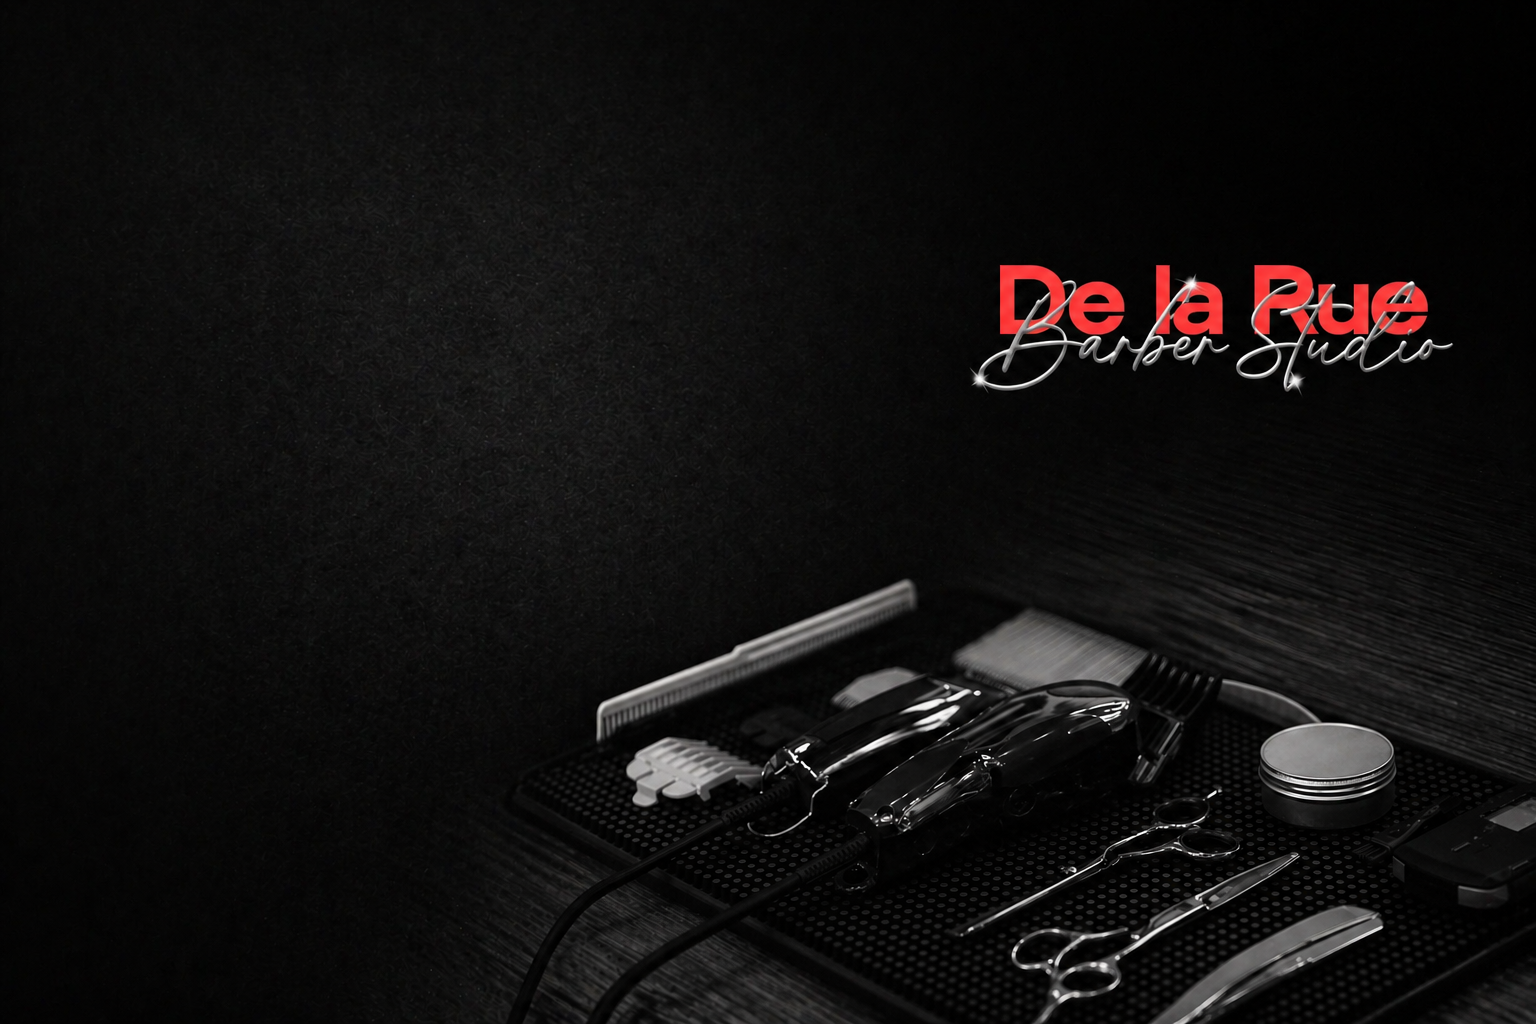
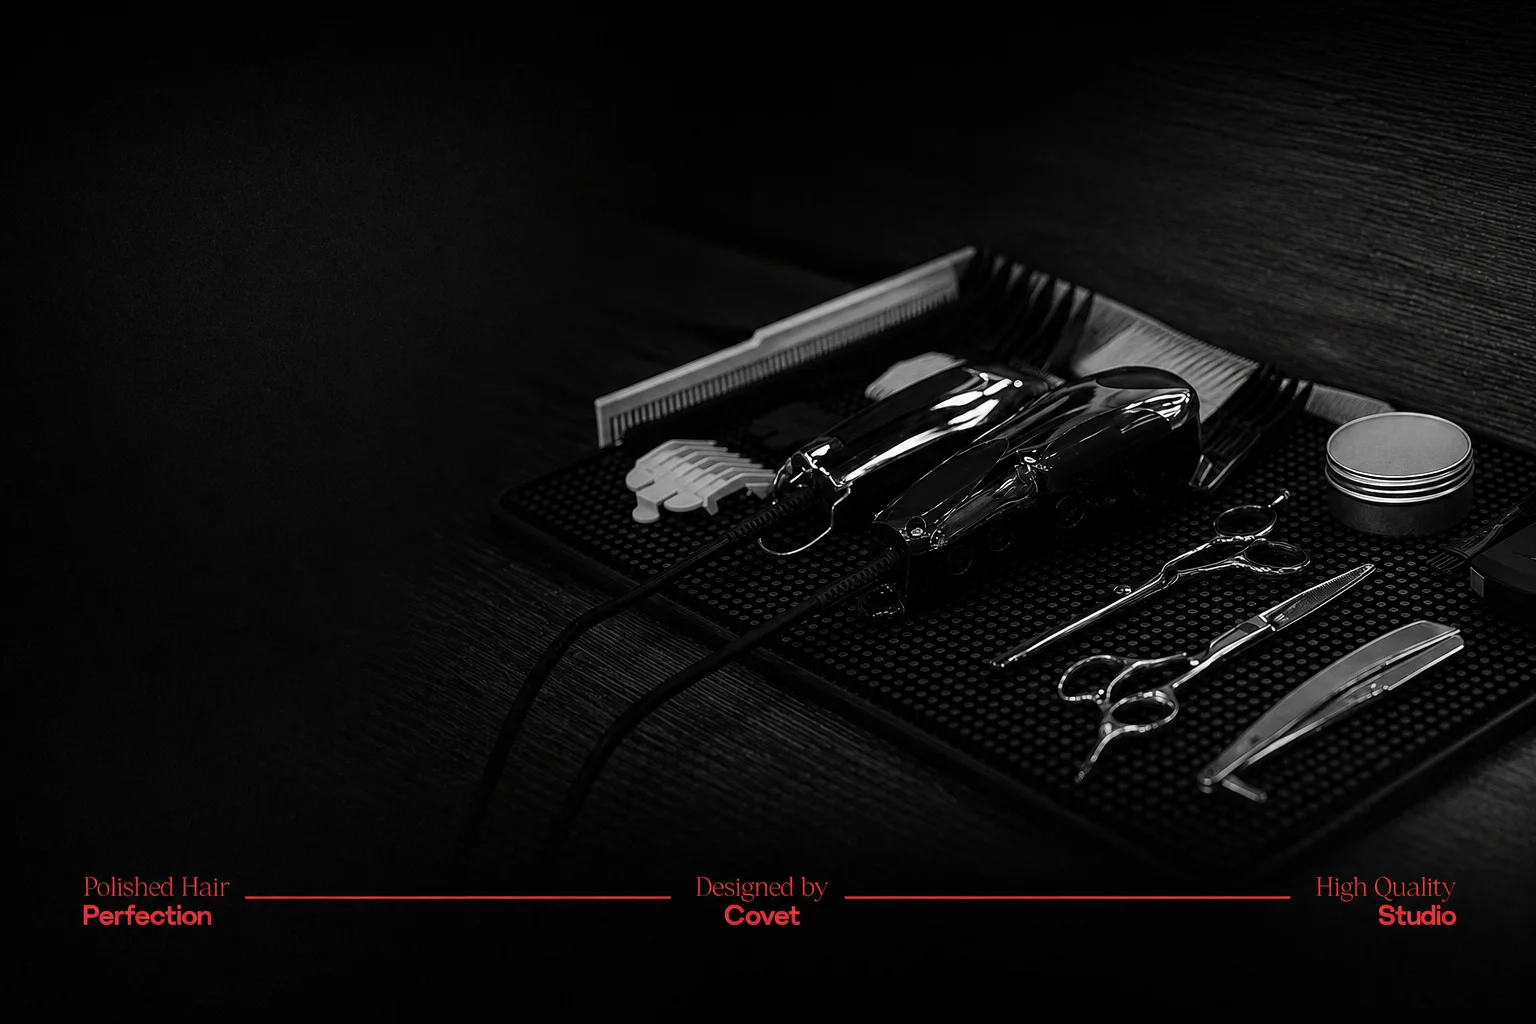
arreglos de diseño

diff --git a/src/styles/global.css b/src/styles/global.css
@@ -1799,24 +1799,26 @@ section {
 }
 
 /* =========================
-   Hero full background
+   HERO BASE
 ========================= */
 
 .hero-full-bg {
   position: relative;
-  min-height: 92vh;
+  min-height: 100vh;
+  min-height: 100svh; /* 🔥 evita corte en móviles */
   display: flex;
   align-items: center;
   background-size: cover;
   background-position: center;
   background-repeat: no-repeat;
-  padding-top: 40px;
+  padding: 70px 0;
+  overflow: hidden;
 }
 
-/* overlay oscuro para legibilidad */
 .hero-full-overlay {
   position: absolute;
   inset: 0;
+  z-index: 1;
   background:
     linear-gradient(to bottom,
       rgba(0, 0, 0, 0.55),
@@ -1826,24 +1828,44 @@ section {
 
 .hero-full-content {
   position: relative;
-  z-index: 2;
+  z-index: 3;
   max-width: 760px;
 }
 
-/* badge */
+/* =========================
+   LOGO
+========================= */
+
+.hero-corner-logo-img {
+  position: absolute;
+  top: 95px;
+  right: 60px;
+  z-index: 4;
+
+  width: clamp(300px, 24vw, 420px);
+  height: auto;
+
+  object-fit: contain;
+  display: block;
+  pointer-events: none;
+}
+
+/* =========================
+   TEXTO
+========================= */
+
 .hero-full-badge {
   display: inline-flex;
   padding: 8px 14px;
   border-radius: 999px;
-  border: 1px solid rgba(255, 255, 255, 0.2);
-  background: rgba(0, 0, 0, 0.3);
+  border: 1px solid rgba(255,255,255,0.2);
+  background: rgba(0,0,0,0.3);
   font-size: 14px;
   font-weight: 700;
   color: var(--accentA);
   margin-bottom: 18px;
 }
 
-/* título */
 .hero-full-title {
   margin: 0;
   display: flex;
@@ -1858,7 +1880,6 @@ section {
   color: var(--card);
 }
 
-/* subtítulo fuerte */
 .hero-full-subtitle-strong {
   margin-top: 20px;
   font-size: clamp(22px, 2.5vw, 32px);
@@ -1866,15 +1887,17 @@ section {
   color: #fff;
 }
 
-/* texto */
 .hero-full-subtitle {
   margin-top: 22px;
-  color: rgba(255, 255, 255, 0.8);
+  color: rgba(255,255,255,0.8);
   font-size: 18px;
   line-height: 1.8;
 }
 
-/* botones */
+/* =========================
+   BOTONES
+========================= */
+
 .hero-full-actions {
   display: flex;
   gap: 14px;
@@ -1882,33 +1905,153 @@ section {
   flex-wrap: wrap;
 }
 
-/* tags */
-.hero-full-trust {
-  display: flex;
-  gap: 10px;
-  flex-wrap: wrap;
-  margin-top: 24px;
-}
+/* =========================
+   TABLET
+========================= */
 
-.hero-full-tag {
-  padding: 8px 12px;
-  border-radius: 999px;
-  border: 1px solid rgba(255, 255, 255, 0.2);
-  background: rgba(0, 0, 0, 0.25);
-  font-size: 13px;
-  font-weight: 600;
-  color: #fff;
-}
-
-/* responsive */
-
-@media (max-width: 700px) {
+@media (max-width: 980px) {
   .hero-full-bg {
-    min-height: 90vh;
+    min-height: 100svh;
+    align-items: flex-start;
+    padding: 92px 0 48px;
+    background-position: center;
+  }
+
+  .hero-corner-logo-img {
+    top: 32px;
+    right: 34px;
+    width: clamp(230px, 34vw, 330px);
+  }
+
+  .hero-full-content {
+    max-width: 680px;
+    padding-top: 108px;
+  }
+
+  .hero-full-badge {
+    margin-bottom: 14px;
+  }
+
+  .hero-full-title {
+    font-size: clamp(68px, 12vw, 98px);
+    line-height: 0.88;
+  }
+
+  .hero-full-subtitle-strong {
+    margin-top: 18px;
+    font-size: clamp(26px, 4vw, 34px);
   }
 
   .hero-full-subtitle {
-    font-size: 16px;
+    margin-top: 18px;
+    font-size: 18px;
+    line-height: 1.65;
+    max-width: 640px;
+  }
+
+  .hero-full-actions {
+    margin-top: 24px;
+  }
+}
+
+/* =========================
+   MOBILE
+========================= */
+
+@media (max-width: 640px) {
+  .hero-full-bg {
+    min-height: 100svh;
+    align-items: flex-start;
+    padding: 28px 0 34px;
+    background-position: center;
+  }
+
+  .hero-corner-logo-img {
+    top: 18px;
+    left: 50%;
+    right: auto;
+    transform: translateX(-50%);
+    width: min(230px, 68vw);
+  }
+
+  .hero-full-content {
+    width: 100%;
+    max-width: 100%;
+    padding-top: 122px;
+    text-align: left;
+  }
+
+  .hero-full-badge {
+    margin-bottom: 14px;
+    padding: 7px 12px;
+    font-size: 12px;
+  }
+
+  .hero-full-title {
+    font-size: clamp(44px, 13.8vw, 62px);
+    line-height: 0.9;
+    letter-spacing: -0.055em;
+  }
+
+  .hero-full-subtitle-strong {
+    margin-top: 16px;
+    font-size: clamp(21px, 6.2vw, 27px);
+    line-height: 1.12;
+  }
+
+  .hero-full-subtitle {
+    margin-top: 18px;
+    font-size: 15.5px;
+    line-height: 1.65;
+  }
+
+  .hero-full-actions {
+    margin-top: 22px;
+    flex-direction: column;
+    align-items: flex-start;
+    gap: 10px;
+  }
+
+  .hero-full-actions a,
+  .hero-full-actions button {
+    min-width: 200px;
+  }
+}
+
+/* =========================
+   MOBILE PEQUEÑO
+========================= */
+
+@media (max-width: 380px) {
+  .hero-full-bg {
+    padding-top: 20px;
+    padding-bottom: 28px;
+  }
+
+  .hero-corner-logo-img {
+    top: 12px;
+    width: min(200px, 64vw);
+  }
+
+  .hero-full-content {
+    padding-top: 104px;
+  }
+
+  .hero-full-title {
+    font-size: clamp(39px, 13vw, 54px);
+  }
+
+  .hero-full-subtitle-strong {
+    font-size: 20px;
+  }
+
+  .hero-full-subtitle {
+    font-size: 14.5px;
+    line-height: 1.55;
+  }
+
+  .hero-full-actions {
+    margin-top: 18px;
   }
 }
 

diff --git a/src/components/sections/HeroSection.jsx b/src/components/sections/HeroSection.jsx
@@ -2,10 +2,11 @@ import Container from "../Container.jsx";
 import Button from "../ui/Button.jsx";
 import { useSiteConfig } from "../../context/SiteConfigContext.jsx";
 
-export default function HeroSection({ brand, data }) {
+export default function HeroSection({ brand: brandProp, data }) {
   const { config } = useSiteConfig();
-  const { links } = config;
 
+  const brand = brandProp || config?.brand || {};
+  const links = config?.links || {};
   const booking = resolveBookingLink(config, data, links);
 
   return (
@@ -17,6 +18,13 @@ export default function HeroSection({ brand, data }) {
       }}
     >
       <div className="hero-full-overlay" />
+
+      {/* 🔥 LOGO */}
+      <img
+        src={brand?.logoImage || "/logos_id/logo_id21.png"}
+        alt={brand?.name || "Logo"}
+        className="hero-corner-logo-img"
+      />
 
       <Container wide>
         <div className="hero-full-content">
@@ -39,7 +47,6 @@ export default function HeroSection({ brand, data }) {
             {data.subtitle}
           </p>
 
-          {/* 🔥 BOTONES */}
           <div className="hero-full-actions">
             {booking.href && (
               <Button href={booking.href} target="_blank">
@@ -47,26 +54,10 @@ export default function HeroSection({ brand, data }) {
               </Button>
             )}
 
-            <Button
-              href="#prices" // 🔥 CAMBIO CLAVE
-              variant="secondary"
-              style={{
-                color: "#fff",
-                borderColor: "rgba(255,255,255,0.25)",
-                background: "rgba(0,0,0,0.25)"
-              }}
-            >
+            <Button href="#prices" variant="secondary">
               Ver servicios
             </Button>
           </div>
-
-          {false && (
-            <div className="hero-full-trust">
-              <HeroTag>Reserva rápida</HeroTag>
-              <HeroTag>Atención directa</HeroTag>
-              <HeroTag>Corte y barba</HeroTag>
-            </div>
-          )}
         </div>
       </Container>
     </section>
@@ -81,7 +72,6 @@ function resolveBookingLink(config, data, links) {
   const type = config?.bookingPlatform?.type || "none";
   const url = config?.bookingPlatform?.url || "";
 
-  // 🔥 WHATSAPP SIEMPRE DISPONIBLE
   if (type === "none") {
     return {
       href: links?.whatsapp || data?.ctaHref || "",
@@ -114,10 +104,4 @@ function resolveBookingLink(config, data, links) {
     href: "",
     label: "",
   };
-}
-
-/* ========================= */
-
-function HeroTag({ children }) {
-  return <div className="hero-full-tag">{children}</div>;
 }

diff --git a/src/pages/Customize.jsx b/src/pages/Customize.jsx
@@ -54,11 +54,10 @@ function ensureConfigShape(config) {
     ...config,
 
     brand: {
-      name: "",
-      tagline: "",
-      emojiLogo: "💈",
-      logoImage: "",
-      ...(config?.brand || {}),
+      name: config?.brand?.name || "",
+      tagline: config?.brand?.tagline || "",
+      emojiLogo: config?.brand?.emojiLogo || "💈",
+      logoImage: config?.brand?.logoImage || "/logos_id/logo_id21.png",
     },
 
     links: {
@@ -577,6 +576,12 @@ export default function Customize() {
                 label="Emoji logo"
                 value={safeConfig.brand.emojiLogo}
                 onChange={(v) => updateRoot("brand", "emojiLogo", v)}
+              />
+
+              <Input
+                label="Logo negocio (URL o ruta)"
+                value={safeConfig.brand.logoImage}
+                onChange={(v) => updateRoot("brand", "logoImage", v)}
               />
 
               <Input
